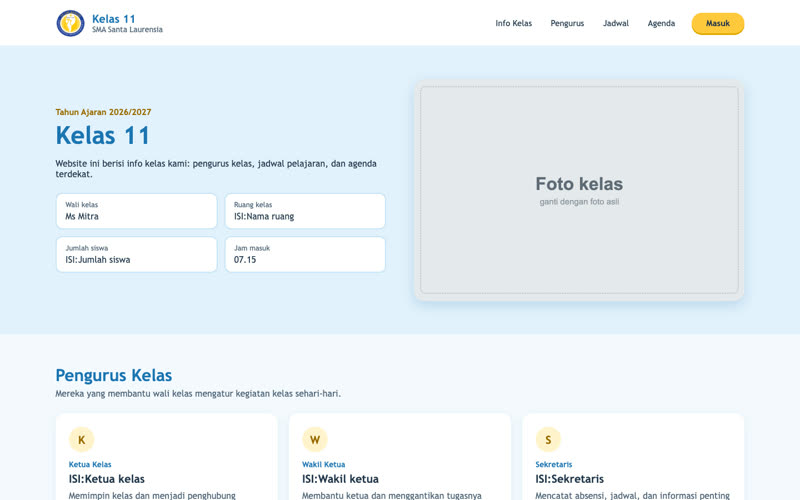
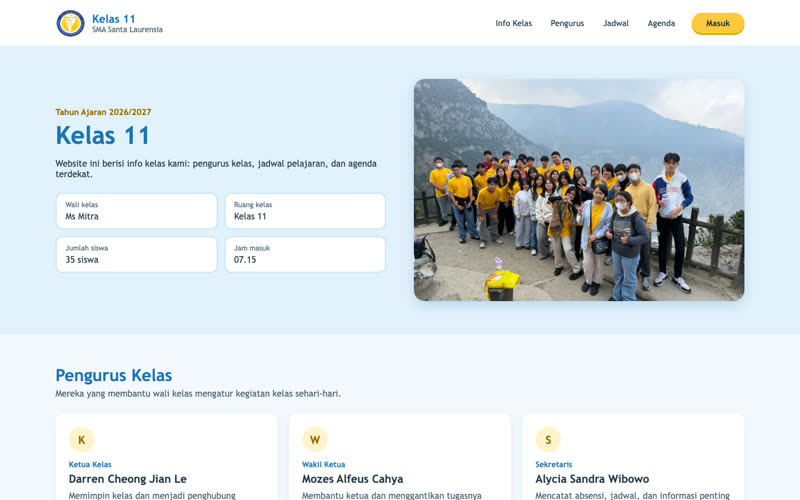
Isi info kelas, pengurus, agenda, dan foto kelas

diff --git a/index.html b/index.html
@@ -40,11 +40,11 @@
                     </div>
                     <div class="as-info-kotak">
                         <p class="as-info-judul">Ruang kelas</p>
-                        <p>ISI:Nama ruang</p>
+                        <p>Kelas 11</p>
                     </div>
                     <div class="as-info-kotak">
                         <p class="as-info-judul">Jumlah siswa</p>
-                        <p>ISI:Jumlah siswa</p>
+                        <p>35 siswa</p>
                     </div>
                     <div class="as-info-kotak">
                         <p class="as-info-judul">Jam masuk</p>
@@ -62,19 +62,19 @@
                 <div class="as-kartu">
                     <p class="as-ikon">K</p>
                     <p class="as-jabatan">Ketua Kelas</p>
-                    <h3>ISI:Ketua kelas</h3>
+                    <h3>Darren Cheong Jian Le</h3>
                     <p>Memimpin kelas dan menjadi penghubung dengan wali kelas.</p>
                 </div>
                 <div class="as-kartu">
                     <p class="as-ikon">W</p>
                     <p class="as-jabatan">Wakil Ketua</p>
-                    <h3>ISI:Wakil ketua</h3>
+                    <h3>Mozes Alfeus Cahya</h3>
                     <p>Membantu ketua dan menggantikan tugasnya kalau ketua tidak masuk.</p>
                 </div>
                 <div class="as-kartu">
                     <p class="as-ikon">S</p>
                     <p class="as-jabatan">Sekretaris</p>
-                    <h3>ISI:Sekretaris</h3>
+                    <h3>Alycia Sandra Wibowo</h3>
                     <p>Mencatat absensi, jadwal, dan informasi penting kelas.</p>
                 </div>
             </div>
@@ -285,22 +285,56 @@
 
         <section class="as-bagian" id="agenda">
             <h2>Agenda dan Pengumuman</h2>
-            <p class="as-pengantar">Kegiatan kelas yang akan datang. Cek bagian ini secara rutin.</p>
+            <p class="as-pengantar">Agenda kelas minggu ini, 16 sampai 20 November 2026.</p>
             <div class="as-agenda">
                 <div class="as-agenda-kartu">
-                    <p class="as-tanggal">ISI:Tanggal</p>
-                    <h3>ISI:Nama kegiatan</h3>
-                    <p>ISI:Keterangan singkat kegiatan</p>
+                    <p class="as-tanggal">16 November 2026</p>
+                    <h3>Senin</h3>
+                    <ul class="as-agenda-daftar">
+                        <li>Batas pengumpulan jurnal literasi buku pengembangan diri.</li>
+                        <li>Pengambilan nilai listening Mandarin.</li>
+                        <li>Batas pengumpulan tugas ICT HTML &amp; CSS.</li>
+                        <li>Membawa baju PE dan buku sesuai jadwal.</li>
+                    </ul>
                 </div>
                 <div class="as-agenda-kartu">
-                    <p class="as-tanggal">ISI:Tanggal</p>
-                    <h3>ISI:Nama kegiatan</h3>
-                    <p>ISI:Keterangan singkat kegiatan</p>
+                    <p class="as-tanggal">17 November 2026</p>
+                    <h3>Selasa</h3>
+                    <ul class="as-agenda-daftar">
+                        <li>DT Fisika materi fluida dinamis.</li>
+                        <li>Melanjutkan diskusi Agama.</li>
+                        <li>DT Bahasa Indonesia materi teks eksplanasi.</li>
+                        <li>Membawa buku sesuai jadwal.</li>
+                    </ul>
                 </div>
                 <div class="as-agenda-kartu">
-                    <p class="as-tanggal">ISI:Tanggal</p>
-                    <h3>ISI:Nama kegiatan</h3>
-                    <p>ISI:Keterangan singkat kegiatan</p>
+                    <p class="as-tanggal">18 November 2026</p>
+                    <h3>Rabu</h3>
+                    <ul class="as-agenda-daftar">
+                        <li>AP Ekonomi.</li>
+                        <li>PPI.</li>
+                        <li>Batas pengumpulan tugas English unit 2.</li>
+                        <li>Membawa buku sesuai jadwal.</li>
+                    </ul>
+                </div>
+                <div class="as-agenda-kartu">
+                    <p class="as-tanggal">19 November 2026</p>
+                    <h3>Kamis</h3>
+                    <ul class="as-agenda-daftar">
+                        <li>DT Kimia materi laju reaksi.</li>
+                        <li>Batas pengumpulan tugas pembuatan teks eksplanasi Bahasa Indonesia.</li>
+                        <li>Membawa buku sesuai jadwal.</li>
+                    </ul>
+                </div>
+                <div class="as-agenda-kartu">
+                    <p class="as-tanggal">20 November 2026</p>
+                    <h3>Jumat</h3>
+                    <ul class="as-agenda-daftar">
+                        <li>Melanjutkan proses 2 DT PKN.</li>
+                        <li>DT Biologi materi zat makanan.</li>
+                        <li>Batas pengumpulan ReadTheory bulan November.</li>
+                        <li>Membawa buku sesuai jadwal.</li>
+                    </ul>
                 </div>
             </div>
         </section>

diff --git a/style.css b/style.css
@@ -281,6 +281,16 @@ body {
     border-radius: 16px;
 }
 
+.as-agenda-daftar {
+    margin: 10px 0 0 0;
+    padding: 0 0 0 18px;
+}
+
+.as-agenda-daftar li {
+    margin: 0 0 6px 0;
+    font-size: 15px;
+}
+
 .as-agenda-kartu p {
     margin: 0;
 }
